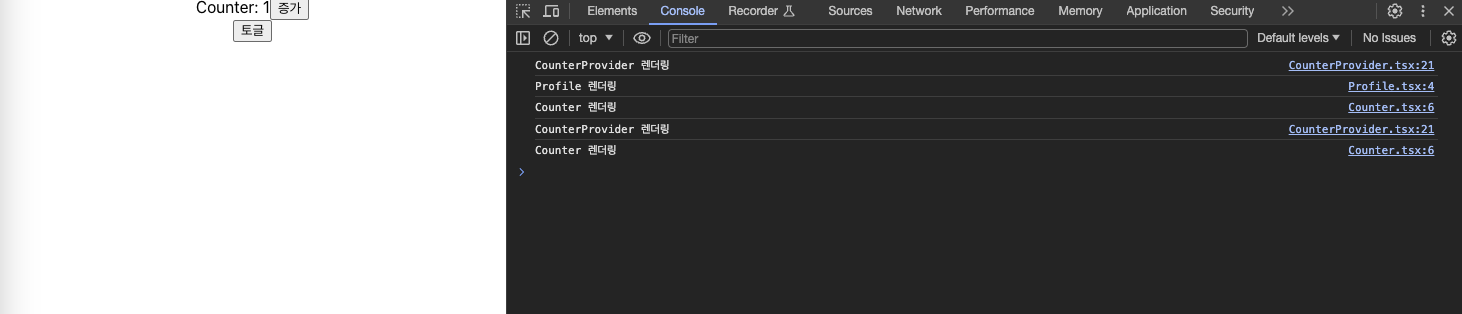
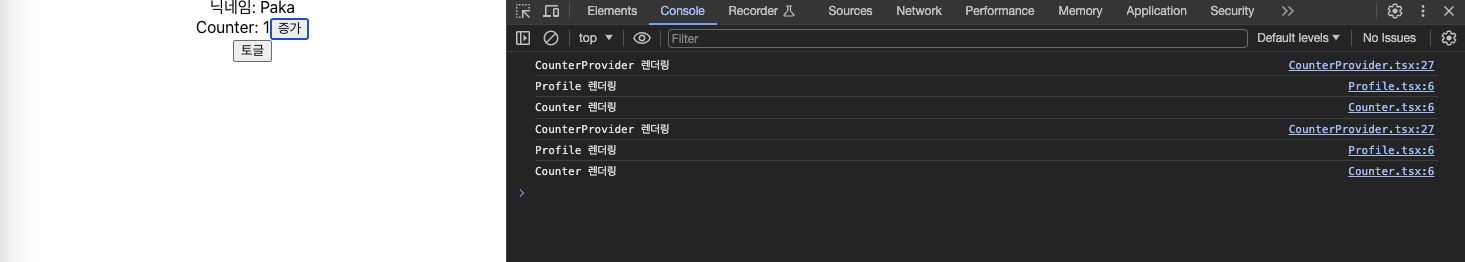
vault backup: 2024-01-05 18:03:11

Changed region(s): [[0.3386, 0.0, 1.0, 0.7023], [0.1231, 0.0, 0.2155, 0.2443], [0.9234, 0.0, 1.0, 0.0611]]

diff --git a/ReactJS/globalState/Context API.md b/ReactJS/globalState/Context API.md
@@ -110,15 +110,16 @@ const CounterProvider: React.FC<Props> = ({ children }) => {
 		return { counter, setCounter, nickname, setNickname };
 	}, [counter, setCounter]);
 
+	console.log("CounterProvider 렌더링");
+
 	return <CounterContext.Provider value={memo}>{children}</CounterContext.Provider>;
 };
 
 export default CounterProvider;
 
-/* Child.tsx */
-import React, { useContext } from "react";
+/* Profile.tsx */
+import { useContext } from "react";
 import { CounterContext } from "../contexts/CounterProvider";
-
 
 const Profile = () => {
 	const { nickname } = useContext(CounterContext);
@@ -134,22 +135,25 @@ const Profile = () => {
 export default Profile;
 ```
 
+
+&nbsp;&nbsp;이번에는 `CounterContext`에 `nickname`과 `setNickname`이 추가되었습니다(counter와 연관성은 없지만...). `Profile` 컴포넌트는 `useContext`로 `nickname`을 사용하고 있고요. 모든 컴포넌트는 렌더링을 확인하기 위해 콘솔을 통해 렌더링 되었음을 출력하게 해두었습니다. 이 상태로 카운터를 증가시키면 어떻게 될까요?
+
 <br>
 
 **결과화면**
 
 ![context changed | ](../images/context_change.png)
 
-&nbsp;&nbsp;증가버튼을 누르게 되면 위에서 살펴보았듯 `CounterContext`가 가진 `setCounter`를 통해 `counter` 전역상태에 변경이 발생합니다. 결과적으로 `Child`와 `CounterProvider`는 재렌더링이 발생하지만 `CounterProvider` 자식컴포넌트인 `Profile` 컴포넌트는 렌더링이 발생하지 않습니다.
+&nbsp;&nbsp;`Profile` 컴포넌트는 `counter` 상태를 사용하지 않지만 같은 `CounterContext`를 공유하고 있기 때문에 재렌더링이 발생합니다. 지금은 관리하는 전역상태와 컴포넌트의 개수가 적지만 시스템이 커지고, 복잡해질 수록 원치않는 재렌더링은 성능저하로 연결될 수 있습니다.
 
 <br>
 
->[!caution] `children` props와 자식 컴포넌트
->
+
+###`children` props와 자식 컴포넌트
+
 >&nbsp;&nbsp;사실 하나 짚고 넘어가야할 점이 있습니다. `children` props로 넘겨받은 컴포넌트와 부모 컴포넌트 내부에 JSX 반환문에 위치한 자식 컴포넌트는 모두 DOM 트리상에서 부모 컴포넌트 아래에 위치하지만 렌더링되는 규칙이 다릅니다.
 >
 >&nbsp;&nbsp;부모 컴포넌트의 상태가 변경되어 재렌더링이 발생함에 따라 자식 컴포넌트는 함께 렌더링이 발생하지만, children props로 넘겨받은 컴포넌트는 재렌더링이 발생하지 않습니다. 그 이유는 children props는 부모 컴포넌트가 자신보다 상위 컴포넌트로부터 받은 props이기 때문인데, props는 props를 넘겨준 상위 컴포넌트에서 관리되며 상위 컴포넌트에서 props의 변경이 발생하지 않았다면 children 역시 변경 사항이 없기 때문에 부모 컴포넌트의 재렌더링과 관계없이 새롭게 렌더링이 되지 않는 것입니다.
->
 >&nbsp;&nbsp;만약 `CounterProvider` 컴포넌트 JSX 반환문에 직접 import된 `Inner` 컴포넌트가 있었다면 `CounterContext`의 변경으로 `CounterProvider`가  재렌더링될 때 함께 렌더링됩니다.
 
 <br>
